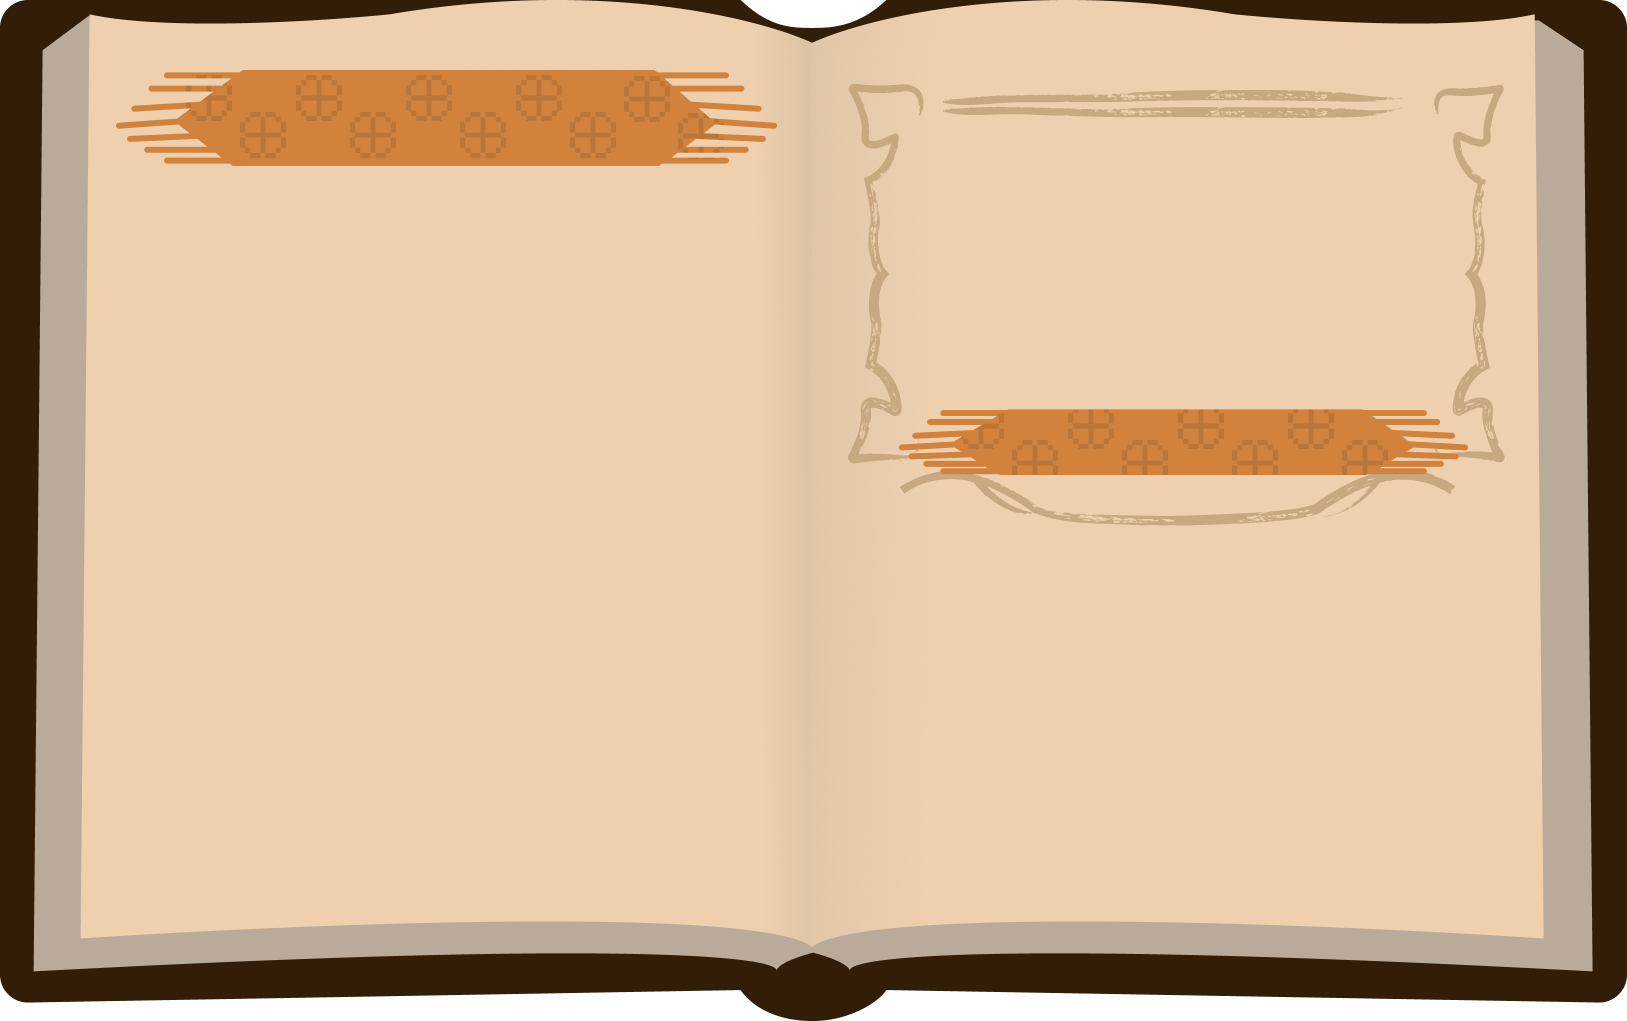
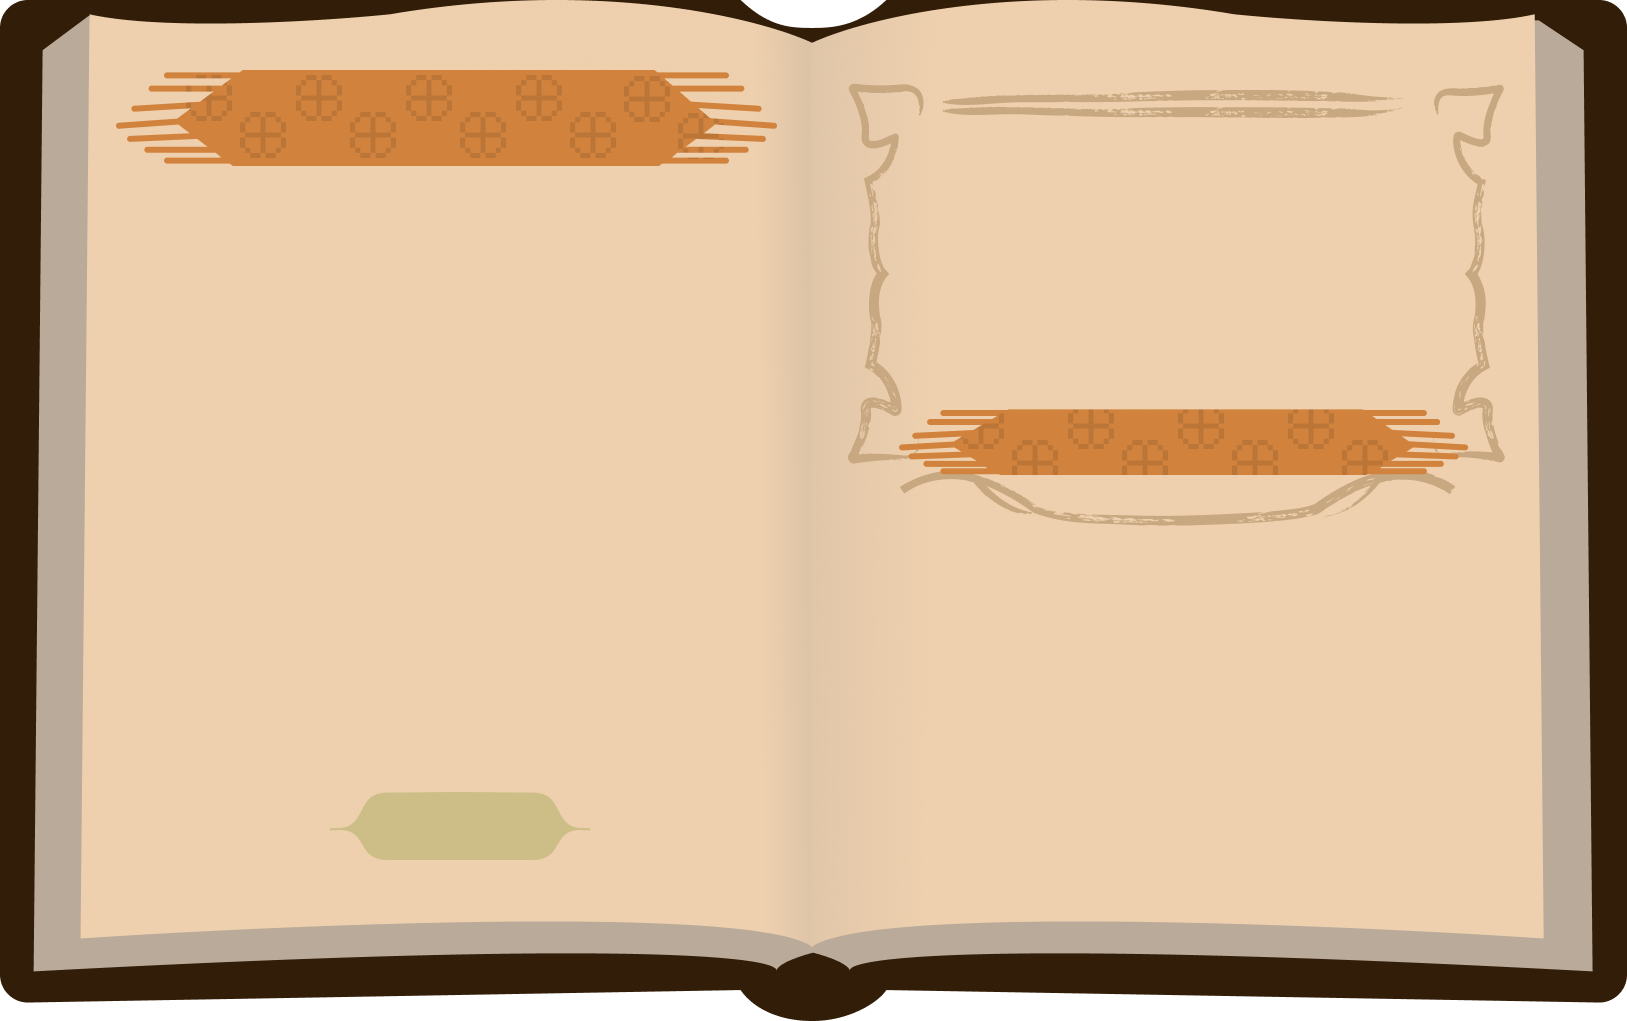
Almanac Update
> fixed layout ng image buttons
> most photos are still placeholders
> added info from docs

Changed region(s): [[0.2151, 0.7591, 0.3688, 0.8501]]

diff --git a/src/components/Almanac.tsx b/src/components/Almanac.tsx
@@ -59,21 +59,53 @@ export default function Almanac() {
           {/* LEFT PAGE - PNG BUTTONS */}
           <div className="leftPageOverlay">
 
-            {entries.map((entry) => (
-              <button
-                key={entry.id}
-                className={`diamondBtn ${
-                  selected?.id === entry.id ? "activeBtn" : ""
-                }`}
-                onClick={() => setSelected(entry)}
-              >
-                <img
-                  src={entry.image_url}
-                  alt={entry.common_name}
-                  className="almanacBtnImg"
-                />
-              </button>
-            ))}
+            <div className="row3">
+              {entries.slice(0, 3).map((entry) => (
+                <button
+                  key={entry.id}
+                  className="diamondBtn"
+                  onClick={() => setSelected(entry)}
+                >
+                  <img src={entry.image_url} className="almanacBtnImg" />
+                </button>
+              ))}
+            </div>
+
+            <div className="row4">
+              {entries.slice(3, 7).map((entry) => (
+                <button
+                  key={entry.id}
+                  className="diamondBtn"
+                  onClick={() => setSelected(entry)}
+                >
+                  <img src={entry.image_url} className="almanacBtnImg" />
+                </button>
+              ))}
+            </div>
+
+            <div className="row3">
+              {entries.slice(7, 10).map((entry) => (
+                <button
+                  key={entry.id}
+                  className="diamondBtn"
+                  onClick={() => setSelected(entry)}
+                >
+                  <img src={entry.image_url} className="almanacBtnImg" />
+                </button>
+              ))}
+            </div>
+
+            <div className="row4">
+              {entries.slice(10, 14).map((entry) => (
+                <button
+                  key={entry.id}
+                  className="diamondBtn"
+                  onClick={() => setSelected(entry)}
+                >
+                  <img src={entry.image_url} className="almanacBtnImg" />
+                </button>
+              ))}
+            </div>
 
           </div>
 

diff --git a/src/styles/styles.css b/src/styles/styles.css
@@ -662,17 +662,32 @@ envelope:hover {
 /* LEFT PAGE */
 .leftPageOverlay {
   position: absolute;
-
-  top: 40%;   /* adjust this */
-  left: 8%;
-
+  top: 62%;
+  left: 7%;
   width: 40%;
-
-  display: grid;
-  grid-template-columns: repeat(3, 1fr);
-  gap: 12px;
-
+  display: flex;
+  flex-direction: column;
   z-index: 5;
+}
+
+.row3,
+.row4 {
+  display: flex;
+  justify-content: center;
+  gap: 20px;
+  margin-top: -35px;
+}
+
+.row3 {
+  display: grid;
+  grid-template-columns: repeat(3, 70px);
+  justify-content: center;
+}
+
+.row4 {
+  display: grid;
+  grid-template-columns: repeat(4, 70px);
+  justify-content: center;
 }
 
 /* RIGHT PAGE */
@@ -690,17 +705,24 @@ envelope:hover {
 
 /* BUTTON */
 .diamondBtn {
+  width: 90px;
+  height: 90px;
+
+  display: flex;
+  align-items: center;
+  justify-content: center;
+
   background: none;
   border: none;
-  cursor: pointer;
   padding: 0;
 }
 
 .almanacBtnImg {
   width: 100%;
-  height: auto;
+  height: 100%;
+  object-fit: contain;
+
   display: block;
-  transition: transform 0.2s ease, filter 0.2s ease;
 }
 
 /* HOVER */